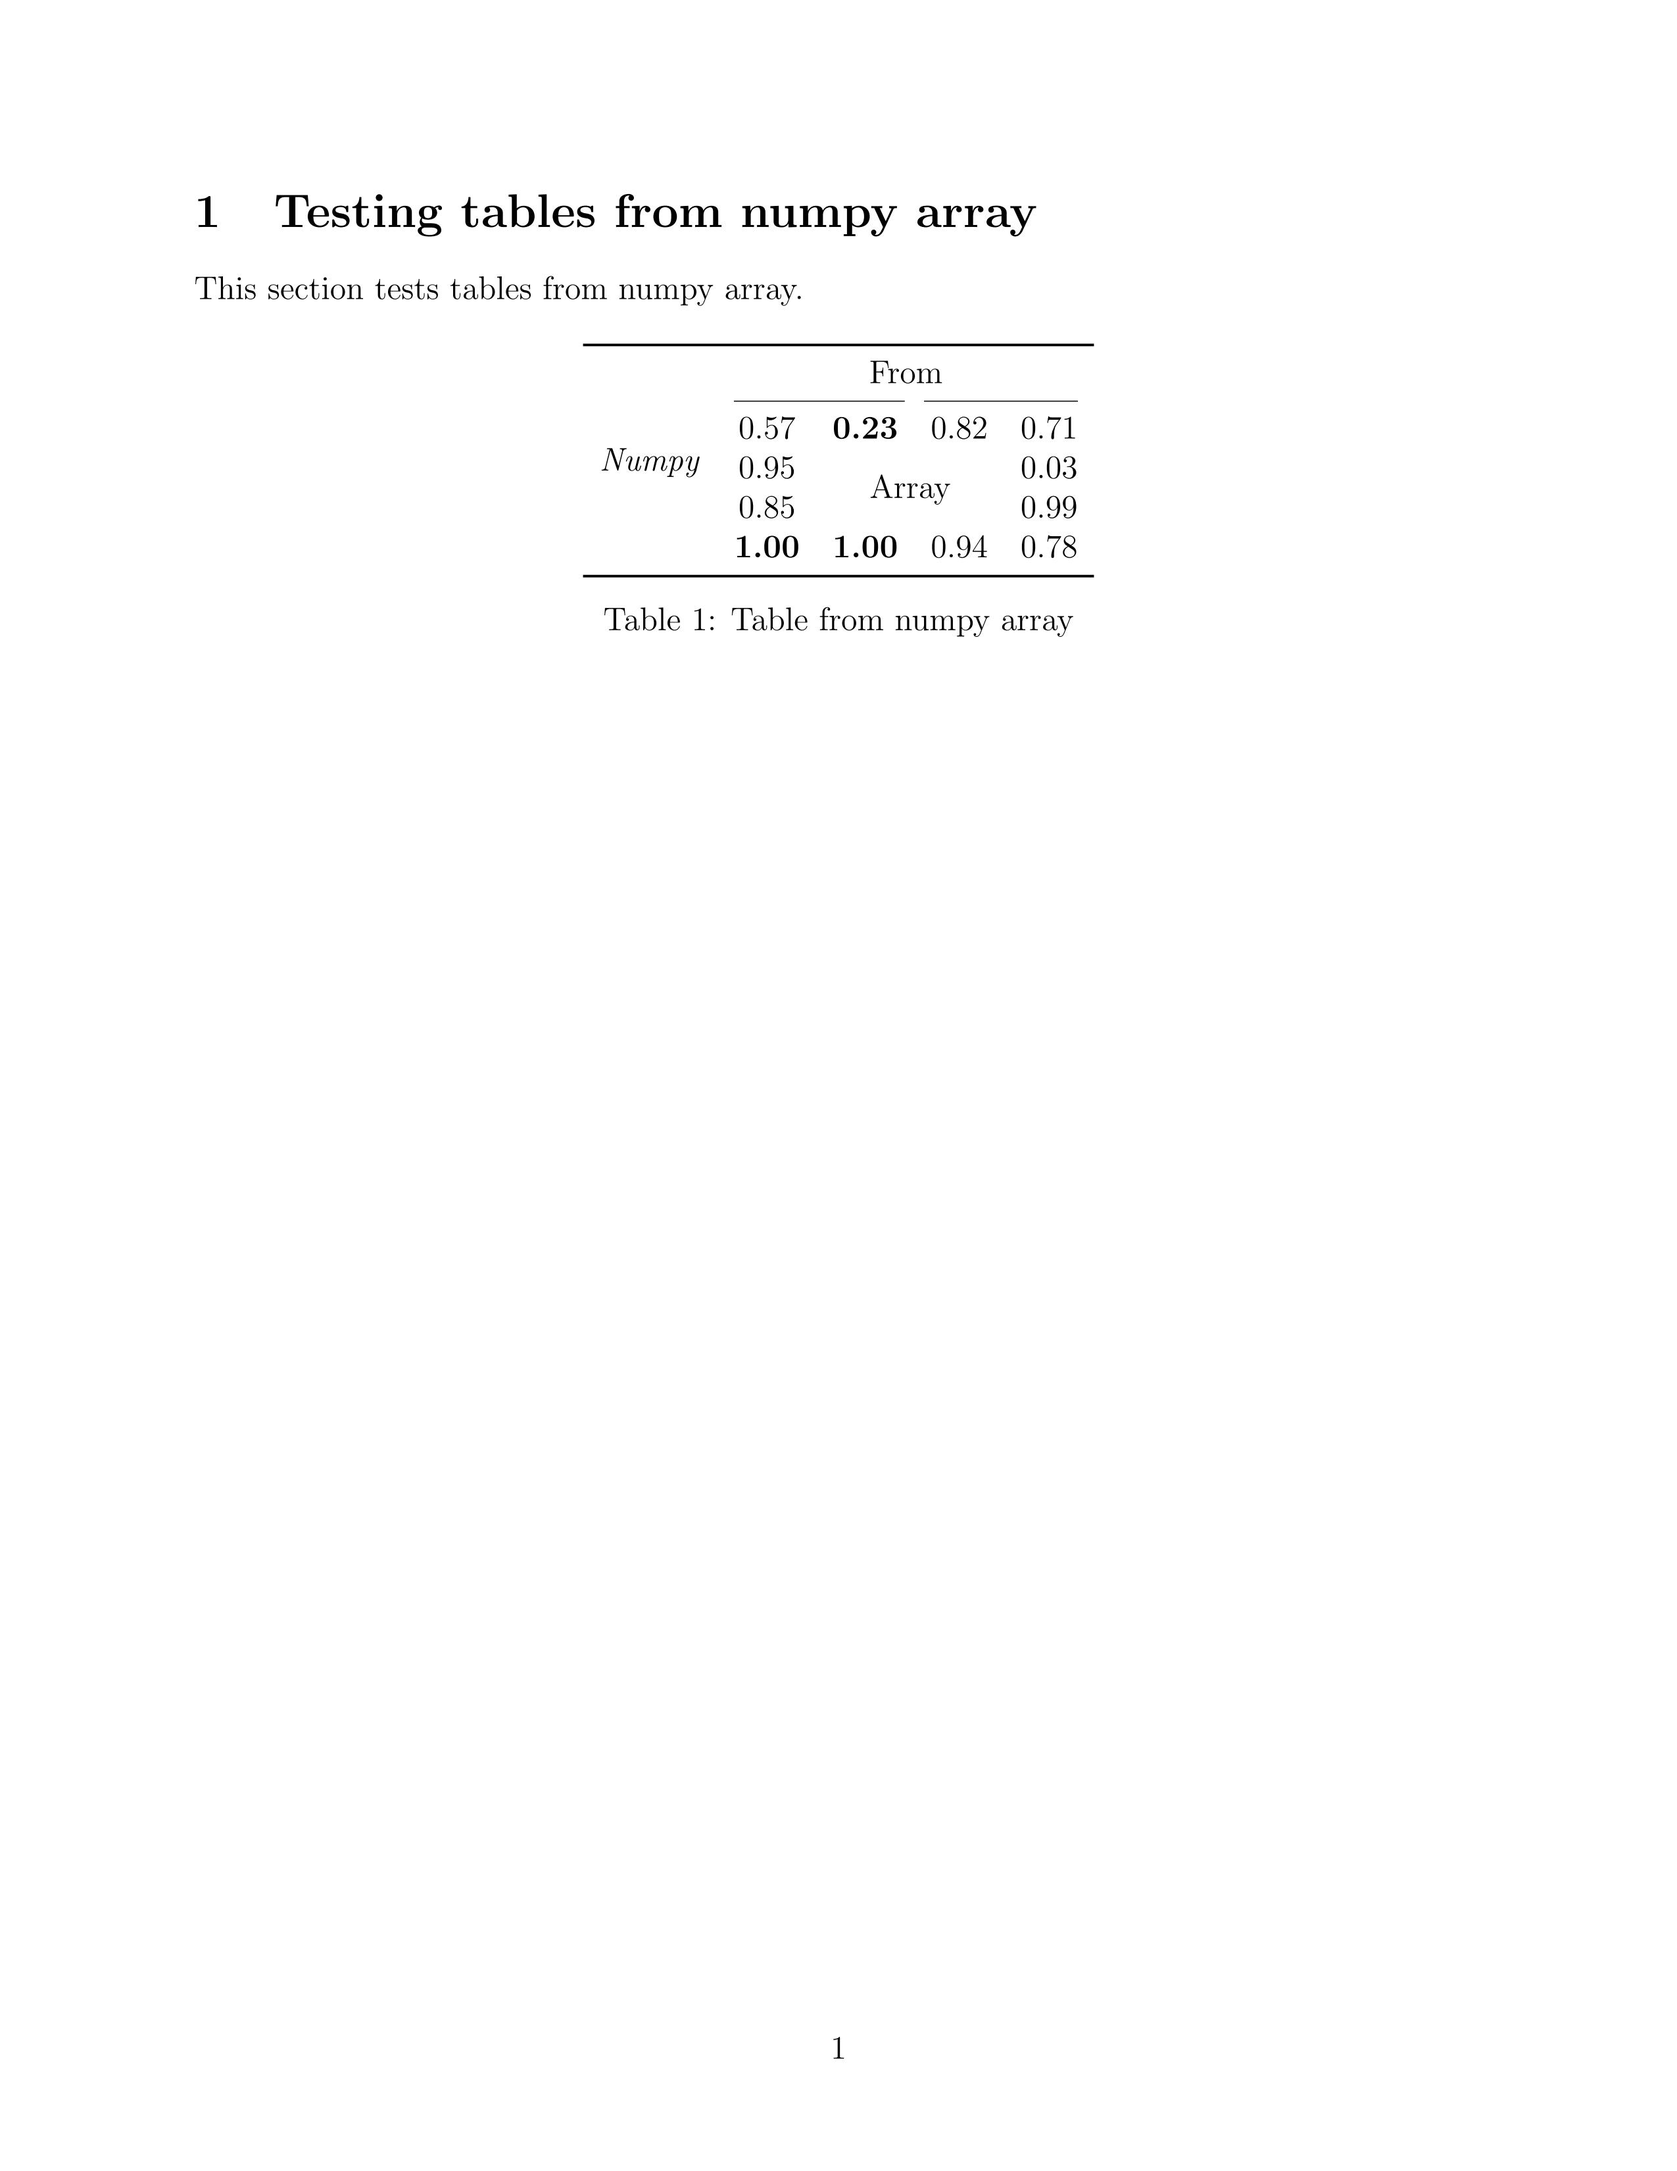
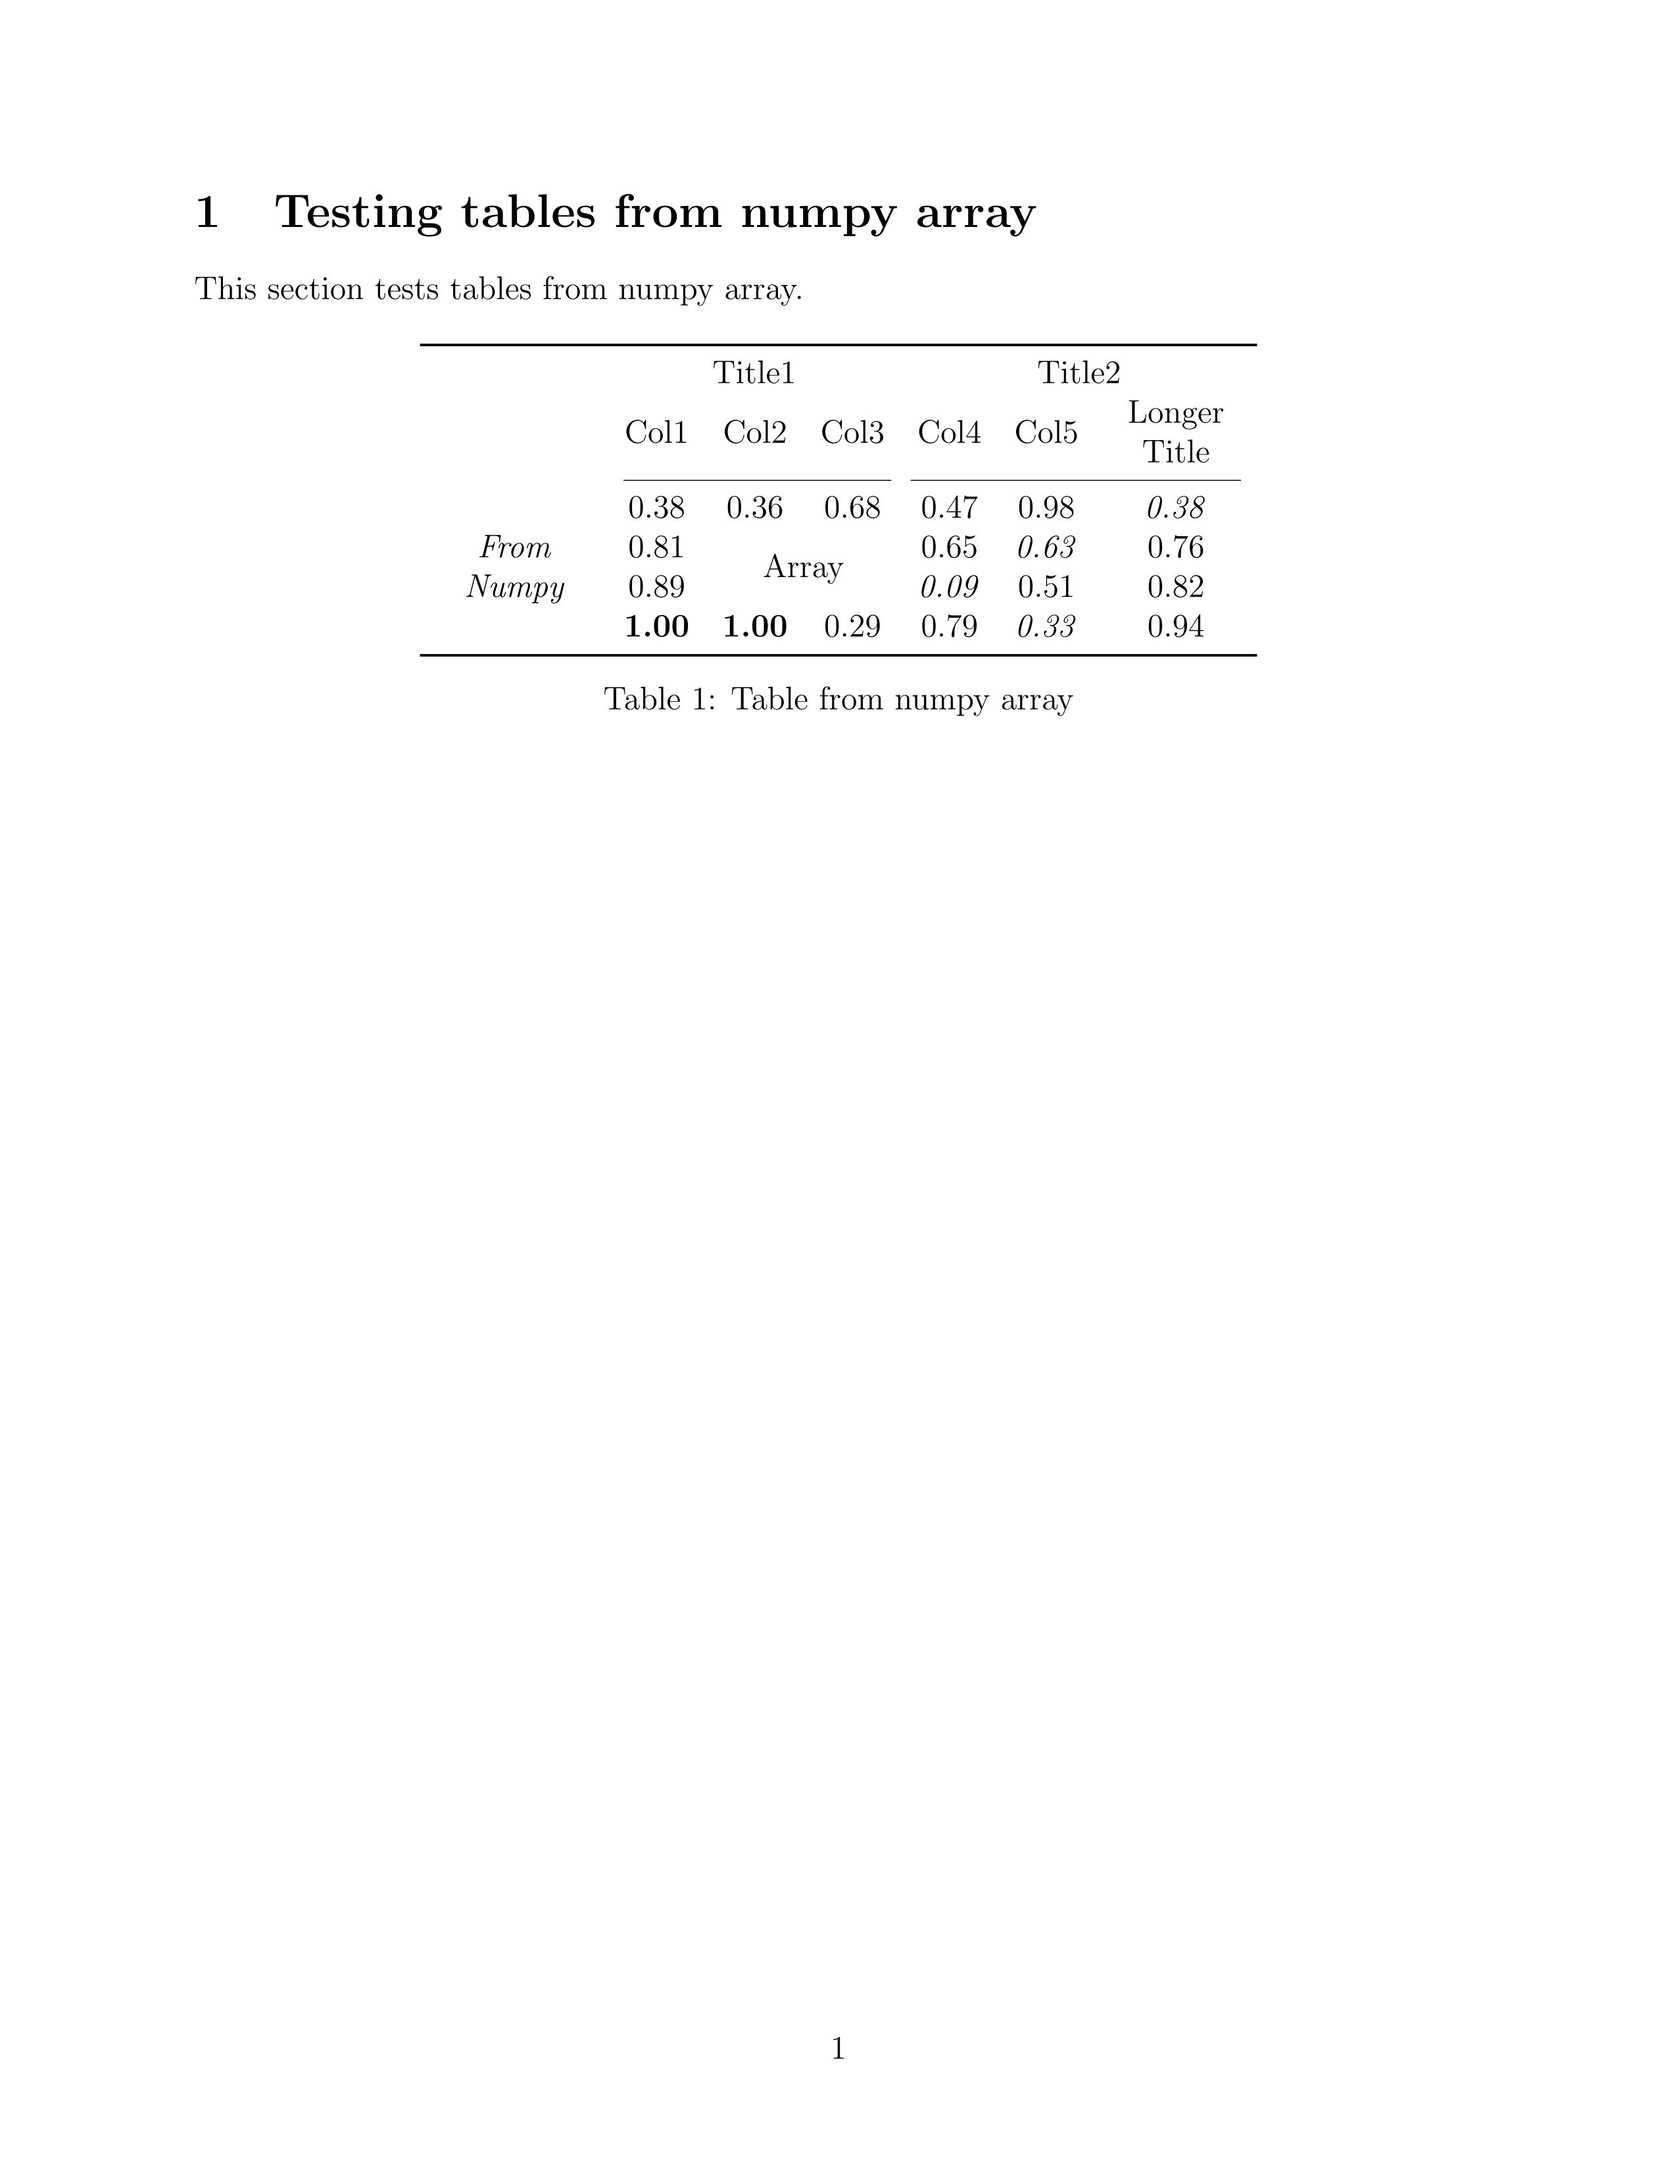
update readme

Changed region(s): [[0.3718, 0.1561, 0.6816, 0.3121], [0.6816, 0.1873, 0.7125, 0.3121], [0.2788, 0.2497, 0.3408, 0.2809]]

diff --git a/README.md b/README.md
@@ -41,7 +41,7 @@ print(tex) # Prints the tex string that generated the pdf
 
 This example shows how to generate automatically a table from data taken directly from a numpy array. The module allows to add merged cells easily, to add rules where you want and even to highlight the best value automatically inside a specified area! To ease these operations, the the square brackets ('getitem') operator have been repurposed to select an area of the table instead of returning the actual values contained in the table. Once an area is selected, use the 'multicell', 'add_rule' or 'highlight_best' methods. To get the actual values inside the table, one can use the 'data' attribute of the table.
 ```python
-from py2tex import Document, Table
+from py2tex import Document, Table, build
 import numpy as np
 
 doc = Document(filename='table_from_numpy_array_example', filepath='examples/table from numpy array example', doc_type='article', options=('12pt',))
@@ -49,32 +49,43 @@ doc = Document(filename='table_from_numpy_array_example', filepath='examples/tab
 sec = doc.new_section('Testing tables from numpy array')
 sec.add_text("This section tests tables from numpy array.")
 
-col, row = 4, 4
+col, row = 6, 4
 data = np.random.rand(row, col)
 
-table = sec.new(Table(shape=(row+1, col+1), alignment='c', float_format='.2f'))
+table = sec.new(Table(shape=(row+2, col+1), alignment='c', float_format='.2f'))
 # Set a caption if desired
 table.caption = 'Table from numpy array'
 # Set entries with a slice directly from a numpy array!
-table[1:,1:] = data
+table[2:,1:] = data
 
-# Set multicell areas with a slice too
-table[2:4,2:4] = 'Array' # The value is stored in the top left cell (here it would be cell (2,2))
-# Set a multicell with custom parameters
-table[0,1:].multicell('From', h_align='c')
+# Set a columns title as a multicell with custom parameters
+table[0,1:4].multicell('Title1', h_align='c')
+table[0,4:].multicell('Title2', h_align='c')
+# Set subtitles as easily
+table[1,1:] = [f'Col{i+1}' for i in range(col)]
+# Set a subtitle on two lines if it is too long
+table[1,-1:].divide_cell(shape=(2,1), alignment='c')[:] = [['Longer'],['Title']]
+
+# Or simply create a new subtable as an entry
+subtable = Table(shape=(2,1), as_float_env=False, bottom_rule=False, top_rule=False)
+subtable[:,0] = ['From', 'Numpy']
+
 # Chain multiple methods on the same area for easy combinations of operations
-table[1:,0].multicell('Numpy', v_align='*', v_shift='10pt').highlight('italic')
+table[2:,0].multicell(subtable, v_align='*', v_shift='0pt').highlight('italic')
+# Set multicell areas with a slice too
+table[3:5,2:4] = 'Array' # The value is stored in the top left cell (here it would be cell (2,2))
 
 # Add rules where you want, as you want
-table[0,1:3].add_rule(trim_left=True, trim_right='.3em')
-table[0,3:].add_rule(trim_left='.3em', trim_right=True)
+table[1,1:4].add_rule(trim_left=True, trim_right='.3em')
+table[1,4:].add_rule(trim_left='.3em', trim_right=True)
 
 # Automatically highlight the best value(s) inside the specified slice, ignoring text
-table[1].highlight_best('low', 'bold') # Whole row 1
+for row in range(2,6):
+    table[row,4:].highlight_best('low', 'italic') # Best per row, for the last 3 columns
 # Highlights equal or near equal values too!
-table[4,1] = 1.0
-table[4,2] = 0.996
-table[4].highlight_best('high', 'bold') # Whole row 4
+table[5,1] = 1.0
+table[5,2] = 0.996
+table[5].highlight_best('high', 'bold') # Whole row 4
 
 tex = doc.build()
 print(tex)
